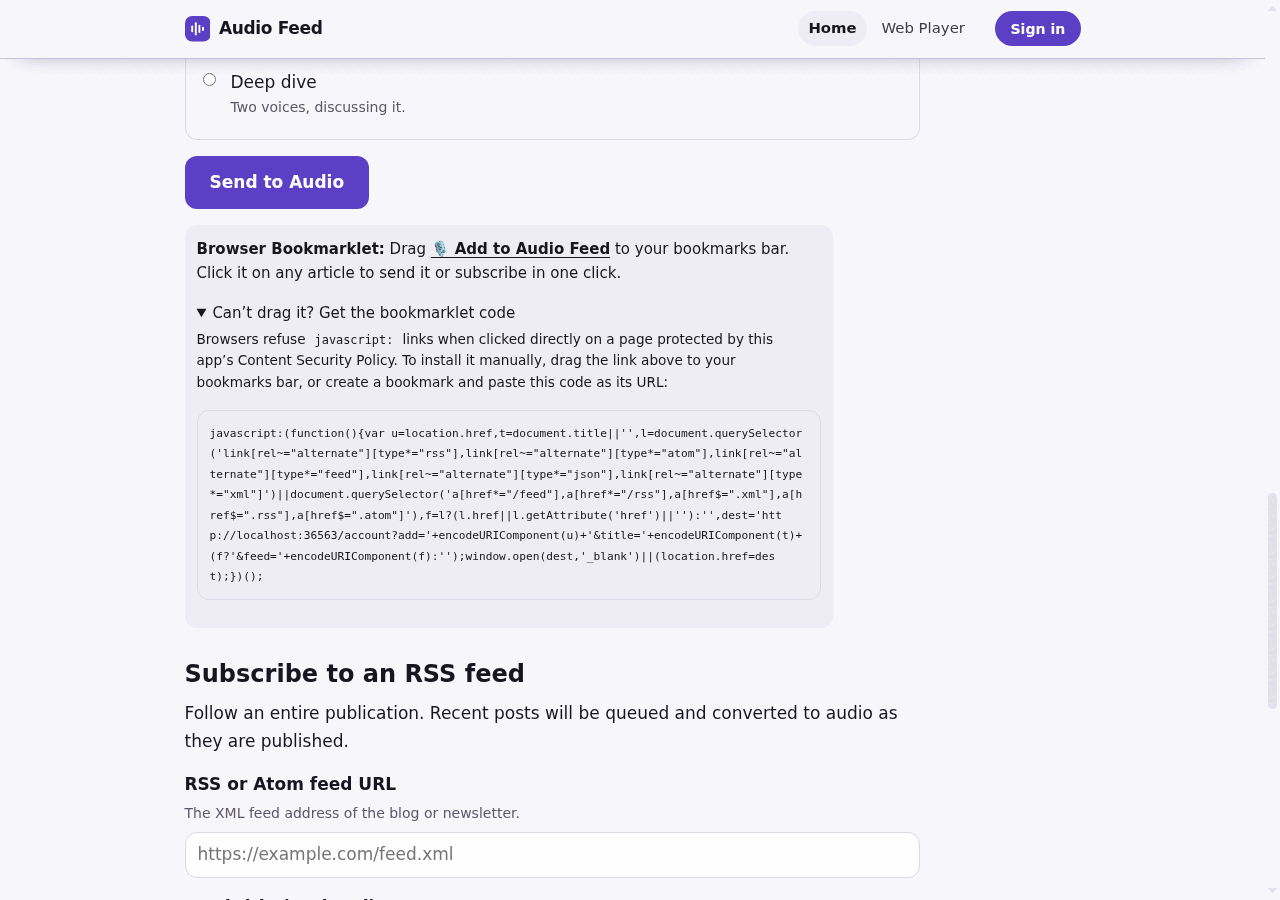
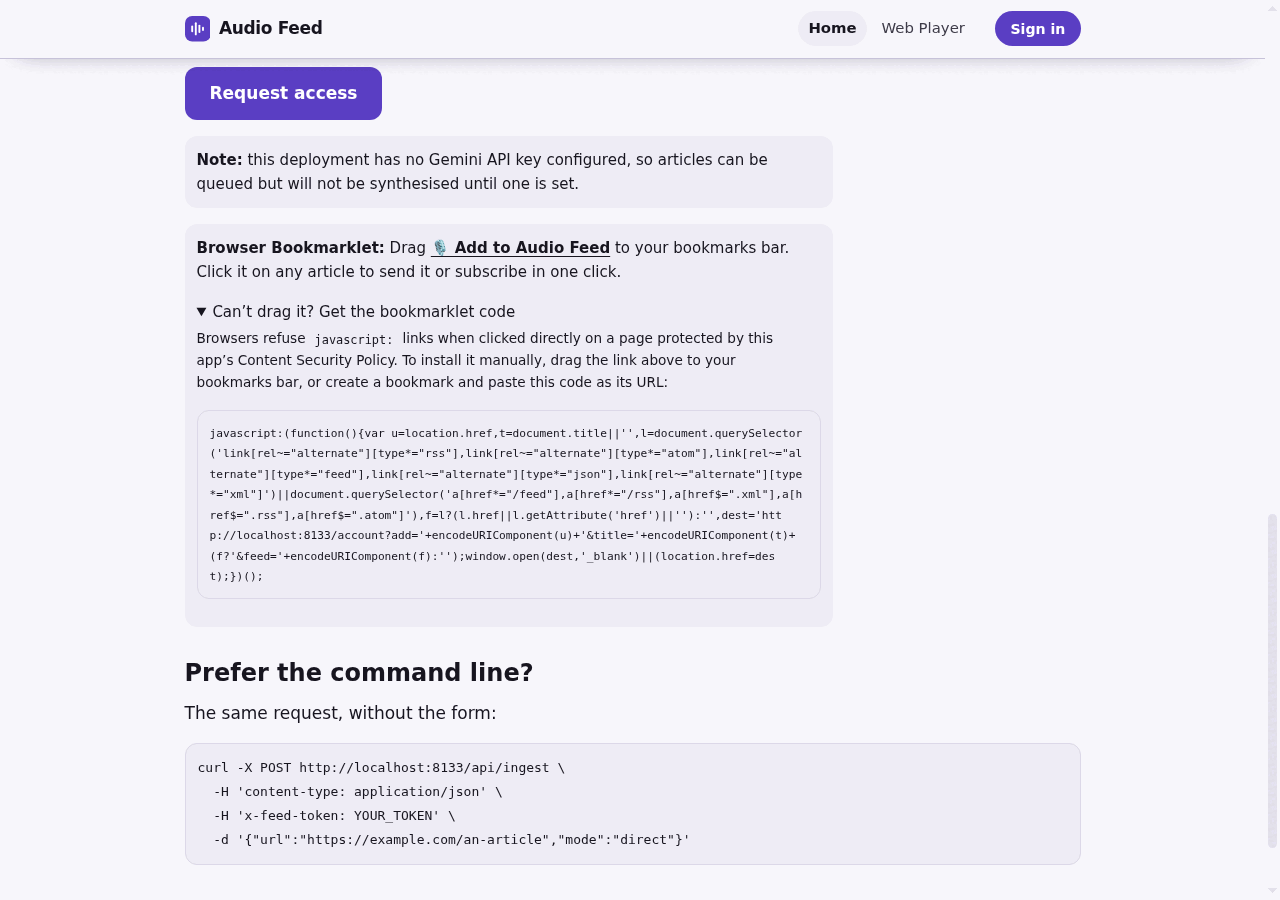
test(evidence): recapture stable bookmarklet proofs (audio-feed-ifgw)
Capture both proof-owned PNGs and READMEs on canonical 8133 with q2mv heading spacing intact. Independent browser rerun matched all four SHA-256 hashes; alternate and occupied-port controls leave canonical bytes unchanged.

Release-note: Bookmarklet proof screenshots now use a stable origin for reviewable evidence diffs.

diff --git a/docs/evidence/audio-feed-kvnw/README.md b/docs/evidence/audio-feed-kvnw/README.md
@@ -1,12 +1,12 @@
 # Browser Proof: /account bookmarklet CSP disclosure (audio-feed-kvnw)
 
 - Script: scripts/verify_kvnw_account_bookmarklet_browser.ts
-- Asserts: the browser is ON /account with the seeded session (not redirected to /login); bookmarklet anchor keeps its class and is still draggable; anchor still carries the javascript: bookmarklet payload; the disclosure exists on /account; the summary offers the code as the fallback; the open disclosure's snippet is the SAME payload as the anchor href (one builder); the wording names the Content Security Policy and tells the user to drag or paste; the disclosure's code is fully visible inside its box (no horizontal clipping); clicking the anchor is REFUSED by the CSP, and the refusal is asserted rather than collected; the refusal leaves the page and the open disclosure intact; the SAME shared rule also un-clips the front door's disclosure (audio-feed-3asd surface)
+- Asserts: the browser is ON /account with the seeded session (not redirected to /login); bookmarklet anchor keeps its class and is still draggable; anchor still carries the javascript: bookmarklet payload; the disclosure exists on /account; the summary offers the code as the fallback; the open disclosure's snippet is the SAME payload as the anchor href (one builder); rendered account bookmarklet uses the selected proof port; the wording names the Content Security Policy and tells the user to drag or paste; the disclosure's code is fully visible inside its box (no horizontal clipping); clicking the anchor is REFUSED by the CSP, and the refusal is asserted rather than collected; the refusal leaves the page and the open disclosure intact; the SAME shared rule also un-clips the front door's disclosure (audio-feed-3asd surface)
 
 ## Test Environment
 
 - **Browser:** Headless Chrome (CDP), 1280x900
-- **Page:** `GET /account` on an in-process server with an ephemeral port
+- **Page:** `GET /account` on canonical proof port 8133 (alternate ports are local-only)
 - **Session:** a real seeded session cookie (`__Host-af_session`), the same way the unit tests sign in
 
 ## Key Verifications
@@ -26,12 +26,13 @@ PASS  bookmarklet anchor keeps its class and is still draggable  class: 'btn qui
 PASS  anchor still carries the javascript: bookmarklet payload  href starts: 'javascript:(function(){var u=l...'
 PASS  the disclosure exists on /account  
 PASS  the summary offers the code as the fallback  summary: 'Can’t drag it? Get the bookmarklet code'
-PASS  the open disclosure's snippet is the SAME payload as the anchor href (one builder)  snippet matches href (617 chars)
+PASS  the open disclosure's snippet is the SAME payload as the anchor href (one builder)  snippet matches href (616 chars)
+PASS  rendered account bookmarklet uses the selected proof port  selected port 8133; rendered port 8133
 PASS  the wording names the Content Security Policy and tells the user to drag or paste  wording: 'Browsers refuse javascript: links when clicked directly on a...'
 PASS  the disclosure's code is fully visible inside its box (no horizontal clipping)  scrollWidth 1231 vs clientWidth 1231, white-space: pre-wrap, rendered height 82px
 PASS  clicking the anchor is REFUSED by the CSP, and the refusal is asserted rather than collected  console: '[error] Running the JavaScript URL violates the following Content Security Policy directive 'sc...'
 PASS  the refusal leaves the page and the open disclosure intact  pathname: /account, disclosure open: true
-PASS  the SAME shared rule also un-clips the front door's disclosure (audio-feed-3asd surface)  scrollWidth 623 vs clientWidth 623, rendered height 190px
+PASS  the SAME shared rule also un-clips the front door's disclosure (audio-feed-3asd surface)  scrollWidth 1231 vs clientWidth 1231, rendered height 82px
 ```
 
 ## Screenshot

diff --git a/docs/evidence/audio-feed-3asd/README.md b/docs/evidence/audio-feed-3asd/README.md
@@ -1,7 +1,7 @@
 # Browser Proof: Bookmarklet CSP Disclosure & Class Fix (audio-feed-3asd)
 
 - Script: scripts/verify_3asd_bookmarklet_browser.ts
-- Asserts: bookmarklet anchor has unified class list without duplicate attributes; bookmarklet anchor is draggable for bookmark bar installation; bookmarklet anchor carries javascript: bookmarklet payload; details disclosure exists under bookmarklet box; summary explains code option when dragging is not possible; details disclosure opens upon user interaction; code snippet in disclosure contains matching bookmarklet source; disclosure code wraps and is fully visible (not horizontally clipped); disclosure text plainly explains browser CSP refusal of javascript: links; browser console explicitly records JavaScript URL CSP refusal on bookmarklet click; zero unhandled page exceptions or unexpected console errors; page and disclosure remain open and stable after link click
+- Asserts: bookmarklet anchor has unified class list without duplicate attributes; bookmarklet anchor is draggable for bookmark bar installation; bookmarklet anchor carries javascript: bookmarklet payload; details disclosure exists under bookmarklet box; summary explains code option when dragging is not possible; details disclosure opens upon user interaction; code snippet in disclosure contains matching bookmarklet source; rendered bookmarklet uses the selected proof port; disclosure code wraps and is fully visible (not horizontally clipped); disclosure text plainly explains browser CSP refusal of javascript: links; browser console explicitly records JavaScript URL CSP refusal on bookmarklet click; zero unhandled page exceptions or unexpected console errors; page and disclosure remain open and stable after link click
 
 ## Key Verifications
 
@@ -20,7 +20,8 @@ PASS  bookmarklet anchor carries javascript: bookmarklet payload  href starts wi
 PASS  details disclosure exists under bookmarklet box
 PASS  summary explains code option when dragging is not possible  summary: 'Can’t drag it? Get the bookmarklet code'
 PASS  details disclosure opens upon user interaction
-PASS  code snippet in disclosure contains matching bookmarklet source  snippet matches href (617 chars)
+PASS  code snippet in disclosure contains matching bookmarklet source  snippet matches href (616 chars)
+PASS  rendered bookmarklet uses the selected proof port  selected port 8133; rendered port 8133
 PASS  disclosure code wraps and is fully visible (not horizontally clipped)  scrollWidth 623 vs clientWidth 623
 PASS  disclosure text plainly explains browser CSP refusal of javascript: links  explanation: 'Browsers refuse javascript: links when clicked directly on a...'
 PASS  browser console explicitly records JavaScript URL CSP refusal on bookmarklet click  refusal logged: 'Running the JavaScript URL violates the following Content Security Policy direct...'
